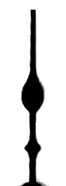
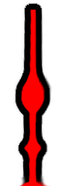
outline hands for b, fix moon_black_1

diff --git a/config_watch.py b/config_watch.py
@@ -150,8 +150,8 @@ hands = {
            ('second', ('a_second_hand.png', 2, False, (37, 37), 0.12),
             [(2, [(0, -5), (0, -70)])]),
            ],
-    'b' : [('hour', ('b_hour_hand.png', 1, False, (33, 211), 0.27), None),
-           ('minute', ('b_minute_hand.png', 1, False, (24, 280), 0.27), None),
+    'b' : [('hour', ('b_hour_hand.png', 't', False, (33, 211), 0.27), None),
+           ('minute', ('b_minute_hand.png', 't', False, (24, 292), 0.27), None),
            ('second', ('b_second_hand.png', 2, False, (32, 21), 0.27),
             [(2, [(0, -5), (0, -75)]),
              ]),
